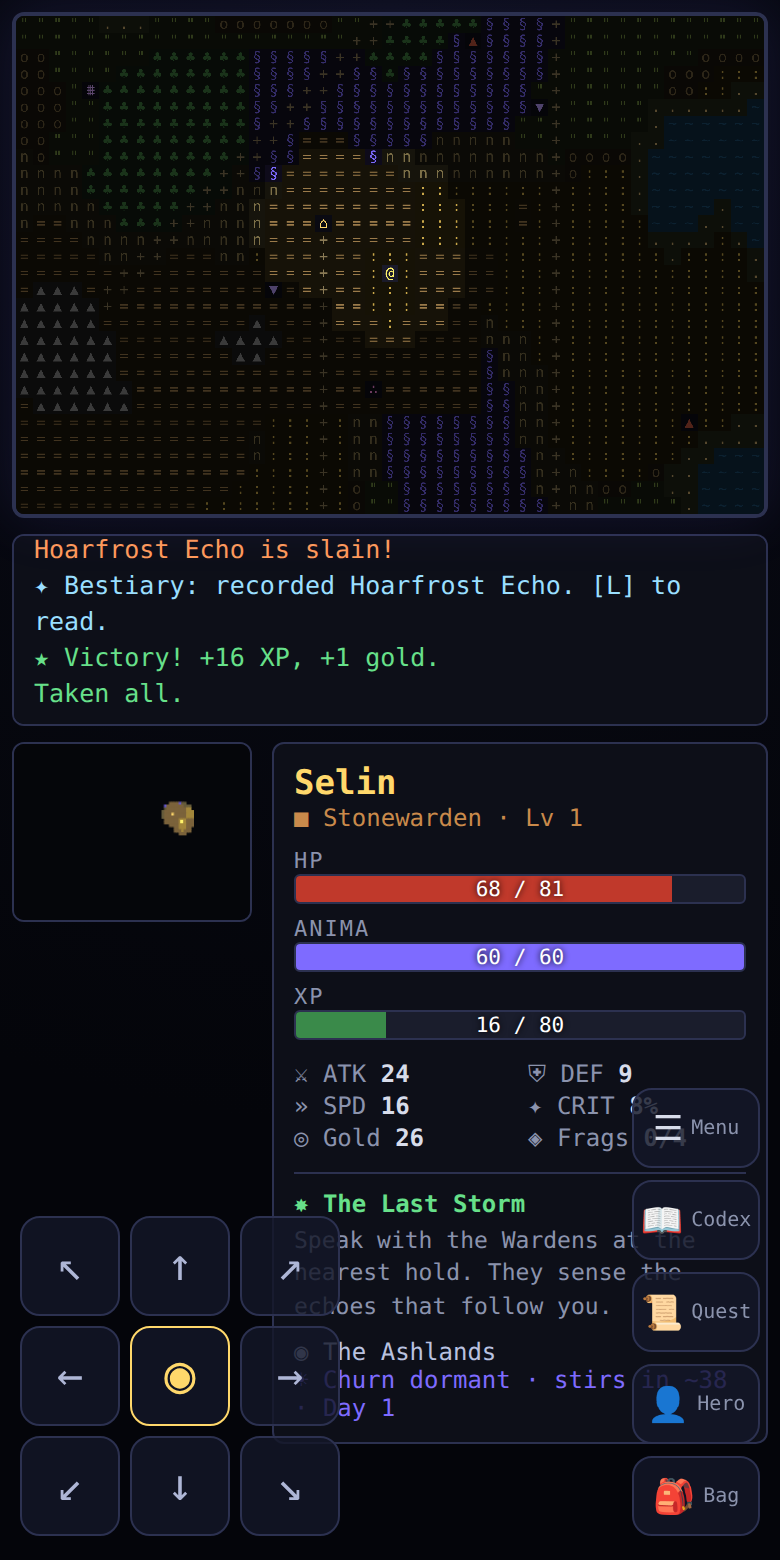
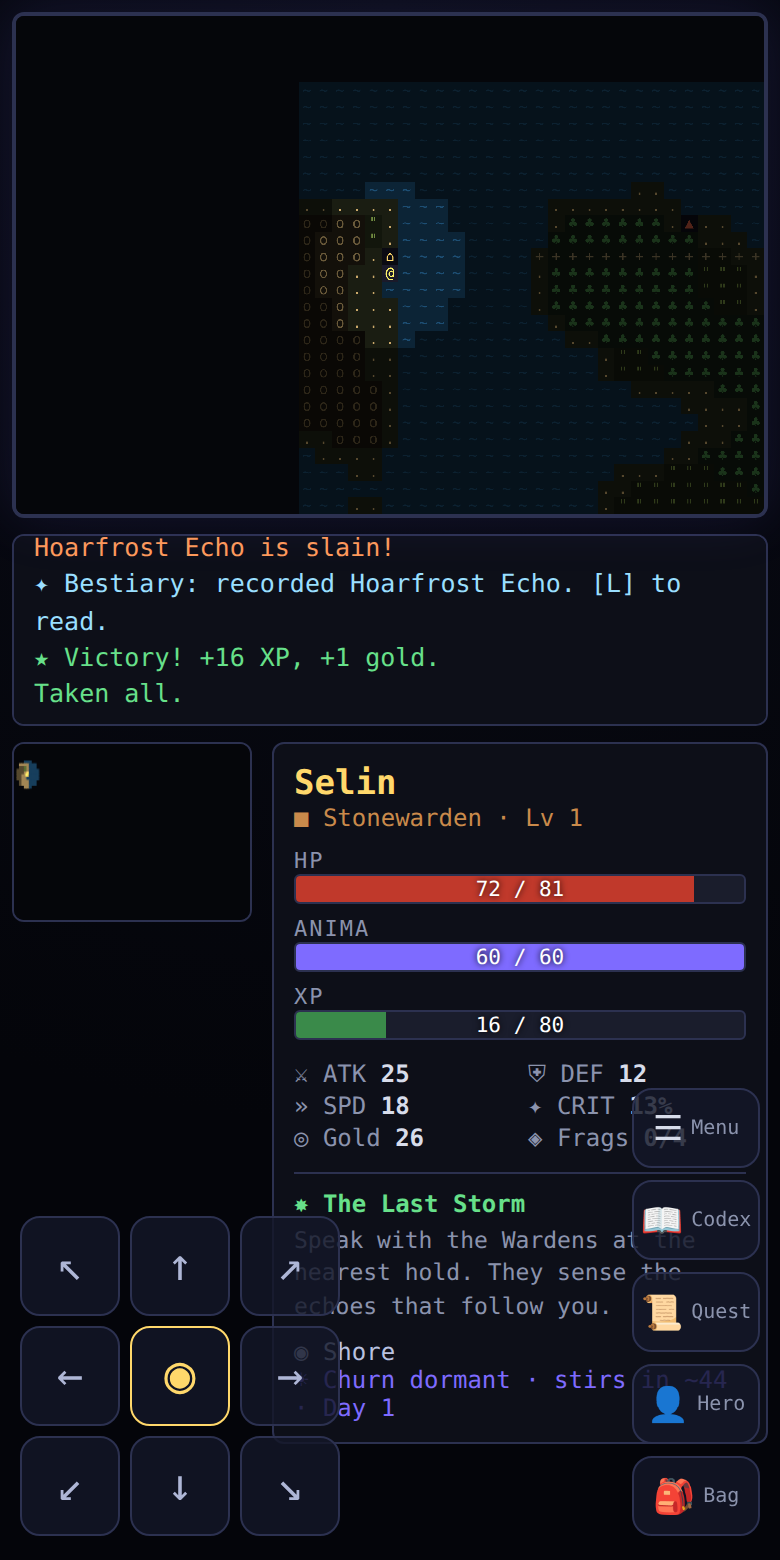
Asynchronous dynasties: the dead return as echoes
Every hero who dies or triumphs is recorded into the Annals — a persistent
ledger that outlives individual saves. In later runs, a past hero rises as a
ghostly echo (φ) somewhere on the map; finding them yields a fragment of their
legacy (their best gear, or a talent), and their echo may walk with you as a
companion. Death and victory screens show the run's stats and a shareable
legend code; ?legend=<code> in the URL seeds another player's hero into your
own Annals — offline-capable "shared world".

New src/dynasty.js (record/encode/decode/import/pick); echo site spawn +
openEcho boon; echo overlay screen; annals note + code on end screens; URL
import at boot. Death no longer wipes the save (keeps "reload last camp").

Tests: logic 837, desktop 40 (annal round-trip + echo boon), mobile 15.

Claude-Session: https://claude.ai/code/session_012JuAjoBx2YqM5W9EUw89GY

diff --git a/src/game.js b/src/game.js
@@ -76,6 +76,7 @@
     this.revealWorld(p.wx, p.wy, 4);
     this.ensureCodex();
     this.discoverBiome(p.wx, p.wy);
+    this.placeEchoSite();
     this.logLines = [];
     this.msg('%c' + TLU.LORE.title + ' — ' + TLU.LORE.subtitle, 'head');
     this.msg('You wake on the Rockbud Plains, echoes circling like curious sparks.');
@@ -233,8 +234,56 @@
   Game.prototype.enterSite = function (site) {
     if (site.type === 'town') { this.openTown(site); return; }
     if (site.type === 'landmark') { this.openLandmark(site); return; }
+    if (site.type === 'echo') { this.openEcho(site); return; }
     // dungeon-like sites
     this.enterDungeon(site);
+  };
+
+  // ---------- asynchronous dynasties: a past hero returns as an echo ----------
+  Game.prototype.placeEchoSite = function () {
+    if (!TLU.Dynasty) return;
+    const rng = new TLU.RNG(this.seed + ':echo');
+    const annal = TLU.Dynasty.pickEcho(rng);
+    if (!annal) return;
+    const w = this.world;
+    for (let tries = 0; tries < 300; tries++) {
+      const x = rng.int(5, w.w - 5), y = rng.int(5, w.h - 5);
+      if (w.passable(x, y) && !w.siteAt(x, y)) {
+        const site = { type: 'echo', annal: annal, x: x, y: y, glyph: 'φ', color: '#b9a7ff', name: 'Echo of ' + annal.name, discovered: false };
+        w.tiles[y][x].site = site; w.sites.push(site); this.echoSite = site;
+        return;
+      }
+    }
+  };
+  Game.prototype.openEcho = function (site) {
+    const a = site.annal; const p = this.player;
+    if (site.discovered) { this.msg('%cThe echo of ' + a.name + ' has faded back into the Churn.', 'note'); return; }
+    site.discovered = true;
+    let boon = [];
+    if (a.item) {
+      const it = JSON.parse(JSON.stringify(a.item)); it.uid = TLU.Items.uid();
+      TLU.Player.addItem(p, it);
+      boon.push('their ' + (it.upgrade ? '+' + it.upgrade + ' ' : '') + it.name);
+    } else {
+      p.perkPoints = (p.perkPoints || 0) + 1;
+      boon.push('a hard-won insight (+1 talent)');
+    }
+    // the echo may walk with you a while
+    if ((p.party || []).length < 2) {
+      const rng = new TLU.RNG(this.seed + ':echoc:' + site.x + ',' + site.y);
+      const comp = TLU.Companions.generate(rng, Math.max(1, a.level || 3), 'channeler');
+      comp.name = a.name + '’s Echo'; comp.color = '#b9a7ff'; comp.glyph = 'φ'; comp.roleName = 'Echo';
+      p.party = p.party || []; p.party.push(comp);
+      boon.push(comp.name + ' joins your party');
+    }
+    this.overlay = { type: 'echo', annal: a, boon: boon.join(' · ') };
+    this.save();
+    this.render();
+  };
+  // record the current hero into the Annals
+  Game.prototype.recordAnnal = function (won, cause, epitaph) {
+    if (!TLU.Dynasty) return null;
+    return TLU.Dynasty.record(this.player, { day: this.day, cause: cause, epitaph: epitaph, won: won, t: this.turnCount });
   };
 
   // ---------- landmarks (one-time discoveries) ----------
@@ -567,13 +616,15 @@
     this.player.stats.deaths++;
     this.state = 'over';
     const quote = new TLU.RNG('death' + this.turnCount).pick(TLU.LORE.deathQuotes);
-    this.overlay = { type: 'over', quote: quote };
+    const annal = this.recordAnnal(false, 'fell in the marches', quote);
+    this.overlay = { type: 'over', quote: quote, code: annal && TLU.Dynasty ? TLU.Dynasty.encode(annal) : '' };
     this.render();
   };
   Game.prototype.victory = function () {
     this.state = 'win';
-    this.overlay = { type: 'win' };
+    const annal = this.recordAnnal(true, 'ended the Gloammother and stilled the Churn', 'They stood in the last Churn, and did not fall.');
     TLU.Save.clear();
+    this.overlay = { type: 'win', code: annal && TLU.Dynasty ? TLU.Dynasty.encode(annal) : '' };
     this.render();
   };
 

diff --git a/src/screens.js b/src/screens.js
@@ -1020,7 +1020,30 @@
     key: function (g, k) { if (k === 'Enter' || k === ' ' || k === 'Escape') { g.overlay = null; g.render(); } },
   };
 
+  // ---- ECHO OF A PAST HERO (asynchronous dynasty) ----
+  SCREENS.echo = {
+    render: function (g) {
+      const a = g.overlay.annal;
+      const tale = a.won
+        ? esc(a.name) + ', a ' + esc(a.orderName) + ' of legend, reached Level ' + a.level + ' and ' + esc(a.cause) + '.'
+        : esc(a.name) + ', a ' + esc(a.orderName) + ', reached Level ' + a.level + ' before they ' + esc(a.cause) + ' on day ' + a.day + '.';
+      return '<div class="panel dialog echo"><div class="menu-title" style="color:#b9a7ff">φ An Echo Stirs — ' + esc(a.name) + '</div>' +
+        '<div class="dlg-text">A figure of pale light takes shape from the drifting dead. ' + tale +
+        (a.epitaph ? '<br><br><i>“' + esc(a.epitaph) + '”</i>' : '') +
+        '<br><br>The echo presses a fragment of its legacy into your hands.</div>' +
+        '<div class="lm-reward">✦ You receive: ' + esc(g.overlay.boon) + '</div>' +
+        '<div class="menu-foot">Enter to continue</div></div>';
+    },
+    key: function (g, k) { if (k === 'Enter' || k === ' ' || k === 'Escape') { g.overlay = null; g.render(); } },
+  };
+
   // ---- GAME OVER ----
+  function annalsNote(g) {
+    if (!g.overlay.code) return '';
+    return '<div class="annals-note">✶ Your legend joins the Annals — it will return as an echo (φ) in worlds to come.' +
+      '<div class="annals-code" title="Share this legend">' + esc(g.overlay.code) + '</div>' +
+      '<span class="dimk">Share this code, or append ?legend=&lt;code&gt; to the URL to seed it into another world.</span></div>';
+  }
   function statsBlock(g) {
     const p = g.player;
     return '<div class="end-stats">' +
@@ -1036,7 +1059,7 @@
     render: function (g) {
       const cont = TLU.Save.hasSave();
       return '<div class="title-screen endscreen death"><div class="end-title">✟ You Have Fallen ✟</div>' +
-        '<div class="end-quote">' + esc(g.overlay.quote || '') + '</div>' + statsBlock(g) +
+        '<div class="end-quote">' + esc(g.overlay.quote || '') + '</div>' + statsBlock(g) + annalsNote(g) +
         UI.renderMenu({ items: cont ? [{ label: 'Reload last camp', color: '#7ec8ff' }, { label: 'Return to title' }] : [{ label: 'Return to title' }], cursor: g.overlay.cursor || 0 }) +
         '<div class="menu-foot">The Churn moves on. Will you?</div></div>';
     },
@@ -1058,7 +1081,7 @@
     render: function (g) {
       return '<div class="title-screen endscreen victory"><div class="end-title win">★ The Last Storm Stilled ★</div>' +
         '<div class="end-quote">Vethra, the Gloammother, unravels into fading light. The Churn gentles, and across Aurenmark the echoes wheel skyward in silent salute. You are the first of the Kindled reborn — and you have ended the eldest of the Hollow Ones.</div>' +
-        statsBlock(g) +
+        statsBlock(g) + annalsNote(g) +
         UI.renderMenu({ items: [{ label: 'Begin anew', color: '#ffd86b' }], cursor: 0 }) +
         '<div class="menu-foot">Remember the dead. Outlast the Churn. — Thank you for playing.</div></div>';
     },

diff --git a/src/dynasty.js b/src/dynasty.js
@@ -1,0 +1,57 @@
+/* ============================================================
+ * dynasty.js — asynchronous dynasties.
+ * Every hero who dies (or triumphs) is recorded into the Annals, a
+ * persistent ledger that OUTLIVES individual save files. In later
+ * runs, a past hero returns as a ghostly "echo" on the map, bearing
+ * a fragment of their legacy. Legends can be shared by code (and a
+ * ?legend=<code> URL import seeds another player's hero into yours).
+ * ============================================================ */
+(function (TLU) {
+  'use strict';
+
+  const KEY = 'tlu_annals_v1';
+  const MAX = 16;
+
+  function load() { try { return JSON.parse(localStorage.getItem(KEY) || '[]'); } catch (e) { return []; } }
+  function store(list) { try { localStorage.setItem(KEY, JSON.stringify(list.slice(-MAX))); } catch (e) {} }
+
+  // the most valuable piece of gear the hero carried, as plain data
+  function bestItem(p) {
+    let best = null, bv = -1;
+    ['weapon', 'body', 'head', 'feet', 'offhand'].forEach(function (s) {
+      const it = p.equip && p.equip[s]; if (it && (it.value || 0) > bv) { bv = it.value; best = it; }
+    });
+    (p.inventory || []).forEach(function (it) {
+      if ((it.type === 'weapon' || it.type === 'armor') && (it.value || 0) > bv) { bv = it.value; best = it; }
+    });
+    return best ? JSON.parse(JSON.stringify(best)) : null;
+  }
+
+  function record(p, info) {
+    info = info || {};
+    const annal = {
+      name: p.name, orderName: p.order ? p.order.name : '', orderId: p.orderId,
+      level: p.level, day: info.day || 0,
+      kills: p.stats ? p.stats.kills : 0, fragments: p.fragments || 0,
+      discoveries: p.discoveries || 0, cause: info.cause || 'fell in the marches',
+      epitaph: info.epitaph || '', won: !!info.won, item: bestItem(p), t: info.t || 0,
+    };
+    const list = load();
+    list.push(annal);
+    store(list);
+    return annal;
+  }
+
+  function encode(annal) { try { return btoa(unescape(encodeURIComponent(JSON.stringify(annal)))); } catch (e) { return ''; } }
+  function decode(code) { try { return JSON.parse(decodeURIComponent(escape(atob(code)))); } catch (e) { return null; } }
+  function importCode(code) {
+    const a = decode(code);
+    if (a && a.name) { const list = load(); a.imported = true; list.push(a); store(list); return a; }
+    return null;
+  }
+
+  function pickEcho(rng) { const list = load(); return list.length ? rng.pick(list) : null; }
+  function clear() { try { localStorage.removeItem(KEY); } catch (e) {} }
+
+  TLU.Dynasty = { KEY: KEY, load: load, store: store, record: record, encode: encode, decode: decode, importCode: importCode, pickEcho: pickEcho, bestItem: bestItem, clear: clear };
+})(window.TLU = window.TLU || {});

diff --git a/test/browser.js b/test/browser.js
@@ -84,6 +84,25 @@ function serve() {
   ok('Churn front detected + forecast', churn.inc === true && /CHURN/i.test(churn.fc));
   ok('Churn supercharges Anima regen', churn.anima >= 5);
 
+  // ----- asynchronous dynasties: record → encode/decode → echo spawns + grants a boon -----
+  const dyn = await page.evaluate(() => {
+    const T = window.TLU, G = window.GAME;
+    T.Dynasty.clear();
+    const an = T.Dynasty.record(G.player, { day: G.day, cause: 'fell testing', epitaph: 'gg' });
+    const code = T.Dynasty.encode(an);
+    const dec = T.Dynasty.decode(code);
+    T.Dynasty.importCode(code);
+    G.placeEchoSite();
+    const echo = G.world.sites.find(function (s) { return s.type === 'echo'; });
+    const partyBefore = G.player.party.length;
+    let opened = false;
+    if (echo) { G.openEcho(echo); opened = !!(G.overlay && G.overlay.type === 'echo'); }
+    return { count: T.Dynasty.load().length, codeOk: !!code && dec && dec.name === an.name, opened: opened, gained: G.player.party.length > partyBefore };
+  });
+  ok('annal recorded + encodes/decodes', dyn.codeOk && dyn.count >= 1);
+  ok('echo of a past hero spawns + grants boon', dyn.opened && dyn.gained);
+  await press('Enter'); // close the echo overlay
+
   // ----- teleport to a town and exercise services -----
   await page.evaluate(() => {
     const g = window.GAME; const t = g.world.towns[0];

diff --git a/styles.css b/styles.css
@@ -146,6 +146,8 @@ html, body {
 .dlg-text { font-size: 14px; line-height: 1.6; min-height: 60px; color: #e6e9f4; margin-bottom: 6px; }
 .npc-role { color: var(--dim); font-size: 12px; font-weight: normal; }
 .lm-reward { margin-top: 10px; color: var(--good); font-size: 14px; font-weight: bold; border-top: 1px solid var(--border); padding-top: 8px; }
+.annals-note { margin: 12px auto; max-width: 480px; color: #b9a7ff; font-size: 12px; line-height: 1.5; }
+.annals-code { margin: 6px auto; max-width: 460px; font-size: 10px; color: var(--dim); word-break: break-all; background: var(--panel); border: 1px solid var(--border); border-radius: 4px; padding: 5px 8px; max-height: 48px; overflow: auto; user-select: all; }
 
 /* codex / journal */
 .codex { min-width: 640px; max-width: 760px; }

diff --git a/src/main.js b/src/main.js
@@ -5,6 +5,11 @@
 (function (TLU) {
   'use strict';
   function boot() {
+    // import a shared legend into the Annals from ?legend=<code>
+    try {
+      const m = location.search.match(/[?&]legend=([^&]+)/);
+      if (m && TLU.Dynasty) { const a = TLU.Dynasty.importCode(decodeURIComponent(m[1])); if (a) console.log('[Annals] imported legend: ' + a.name); }
+    } catch (e) {}
     const canvas = document.getElementById('map');
     const disp = new TLU.Render.Display(canvas, { cell: 20, cols: 45, rows: 30, font: '"Cascadia Code", "DejaVu Sans Mono", monospace' });
     const game = new TLU.Game();

diff --git a/src/touch.js b/src/touch.js
@@ -79,7 +79,7 @@
     if (en) { game.touchEnemy(parseInt(en.getAttribute('data-eidx'), 10)); return true; }
     // tap-to-advance for text screens (dialog, help, chargen name step)
     const o = game.overlay;
-    if (o && (o.type === 'dialog' || o.type === 'help' || o.type === 'landmark' || (o.type === 'chargen' && o.step === 2))) { game.key('Enter'); return true; }
+    if (o && (o.type === 'dialog' || o.type === 'help' || o.type === 'landmark' || o.type === 'echo' || (o.type === 'chargen' && o.step === 2))) { game.key('Enter'); return true; }
     return false;
   }
 

diff --git a/index.html b/index.html
@@ -54,6 +54,7 @@
 <script src="src/player.js"></script>
 <script src="src/combat.js"></script>
 <script src="src/save.js"></script>
+<script src="src/dynasty.js"></script>
 <!-- presentation -->
 <script src="src/render.js"></script>
 <script src="src/ui.js"></script>
